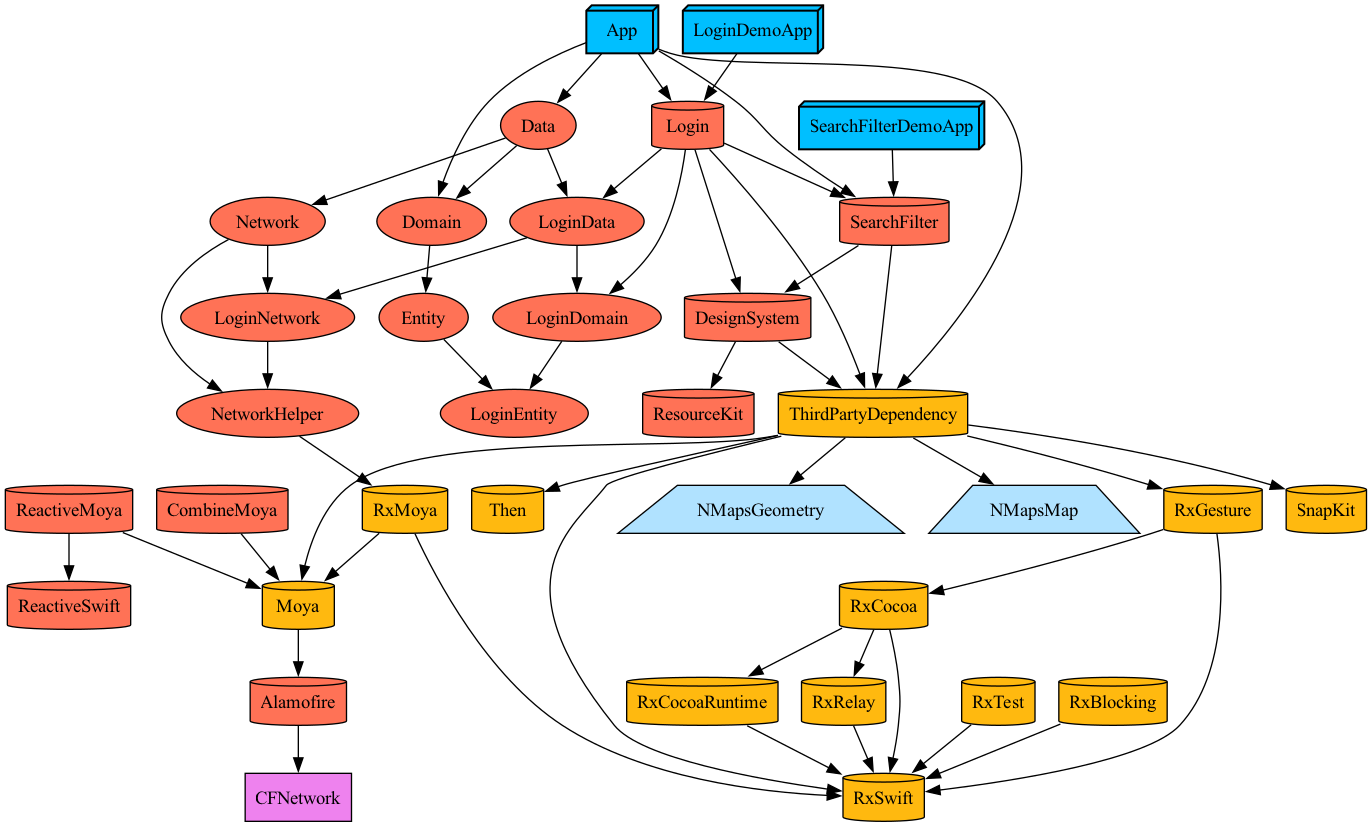
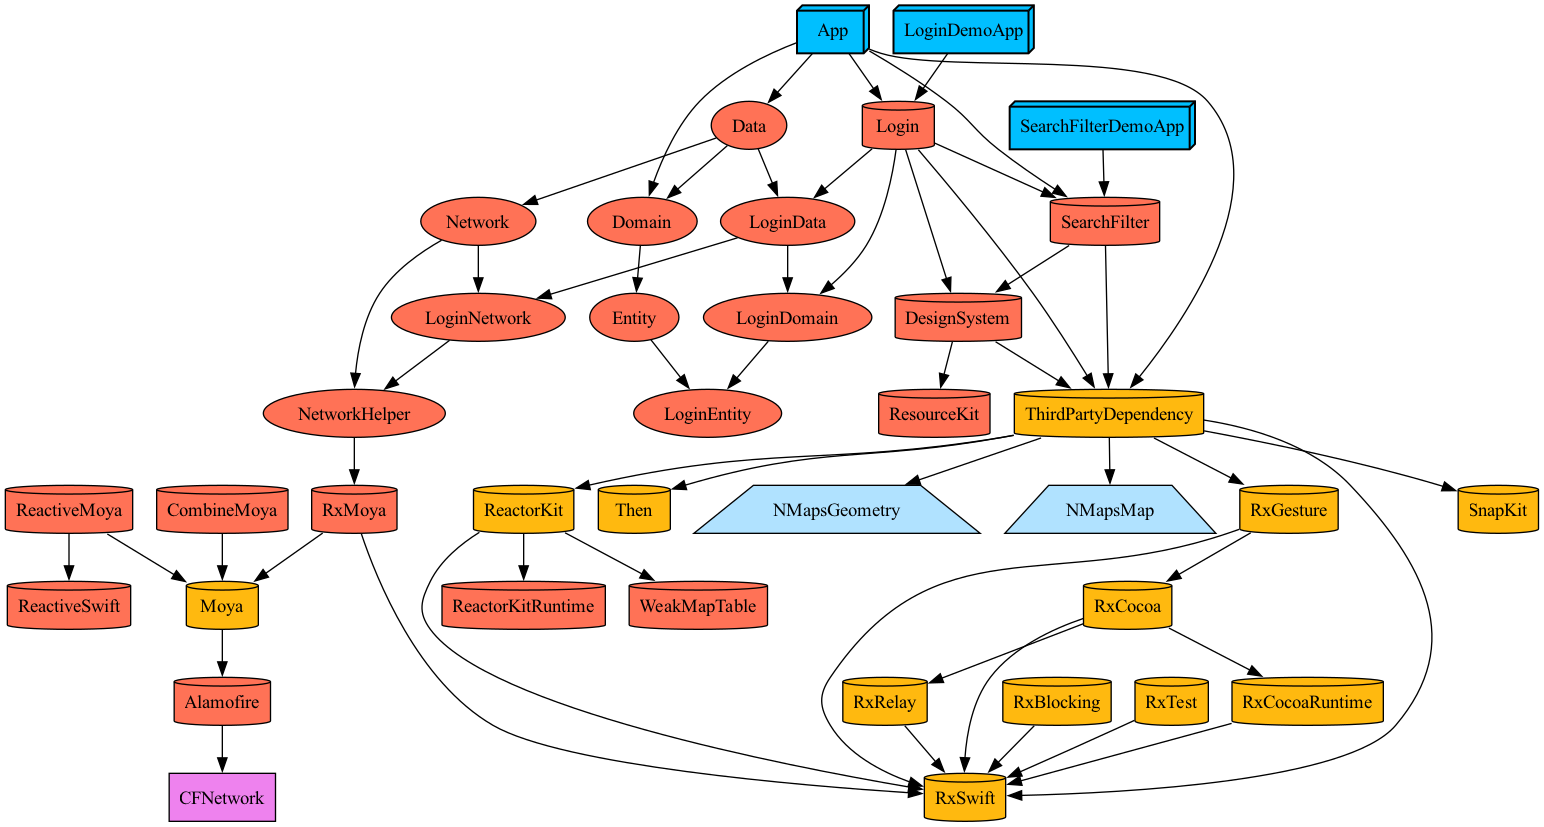
[SETTING] 불필요한 의존성 제거

diff --git a/Tuist/Dependencies.swift b/Tuist/Dependencies.swift
@@ -23,7 +23,6 @@ let thirdPartySPM = SwiftPackageManagerDependencies(
     "RxSwift": .framework,
     "RxGesture": .framework,
     "Moya": .framework,
-    "RxMoya": .framework,
     "NMapsMap": .framework,
     "ReactorKit": .framework
   ]

diff --git a/Plugins/ThirdPartyDependencyPlugin/ProjectDescriptionHelpers/ThirdPartyDependency+Project.swift b/Plugins/ThirdPartyDependencyPlugin/ProjectDescriptionHelpers/ThirdPartyDependency+Project.swift
@@ -21,7 +21,6 @@ public extension TargetDependency.ThirdParty {
     Then,
     RxSwift,
     RxGesture,
-    Moya,
     NMapsMap,
     ReactorKit
   ]
